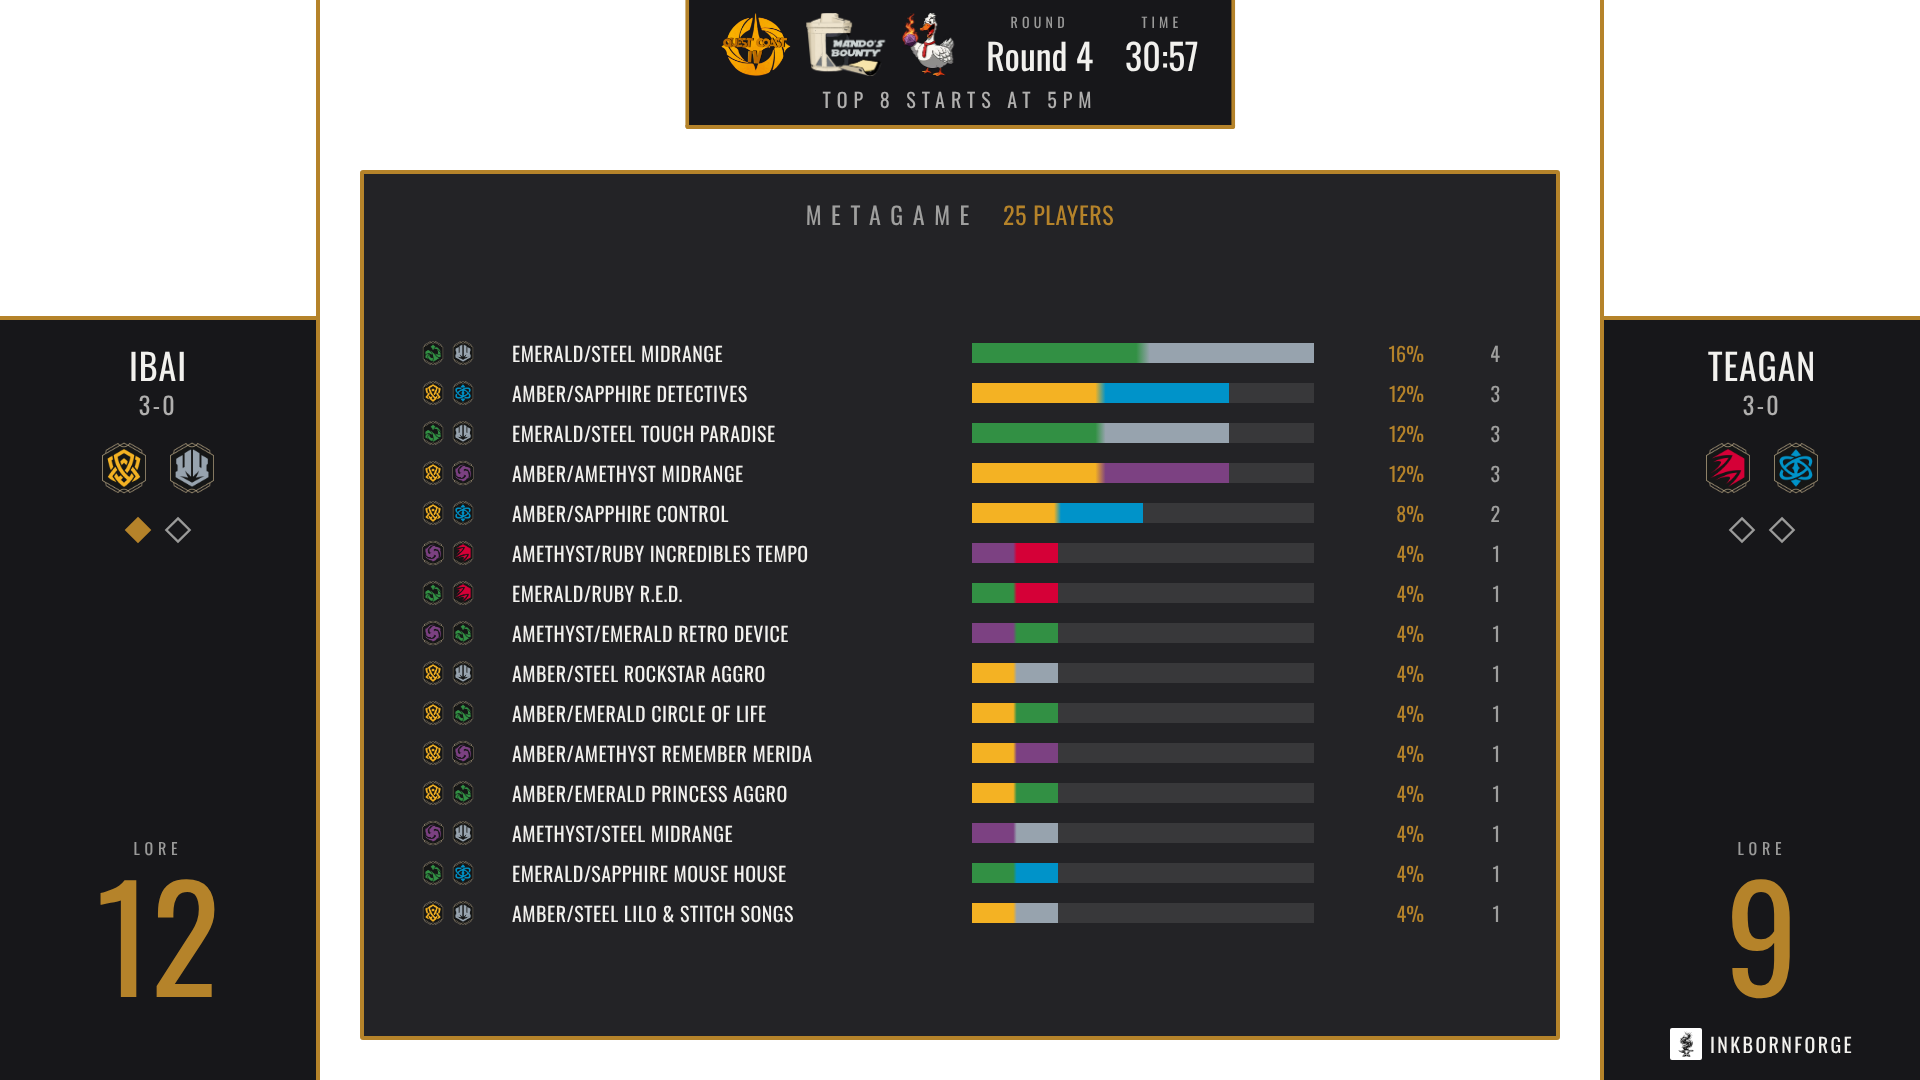
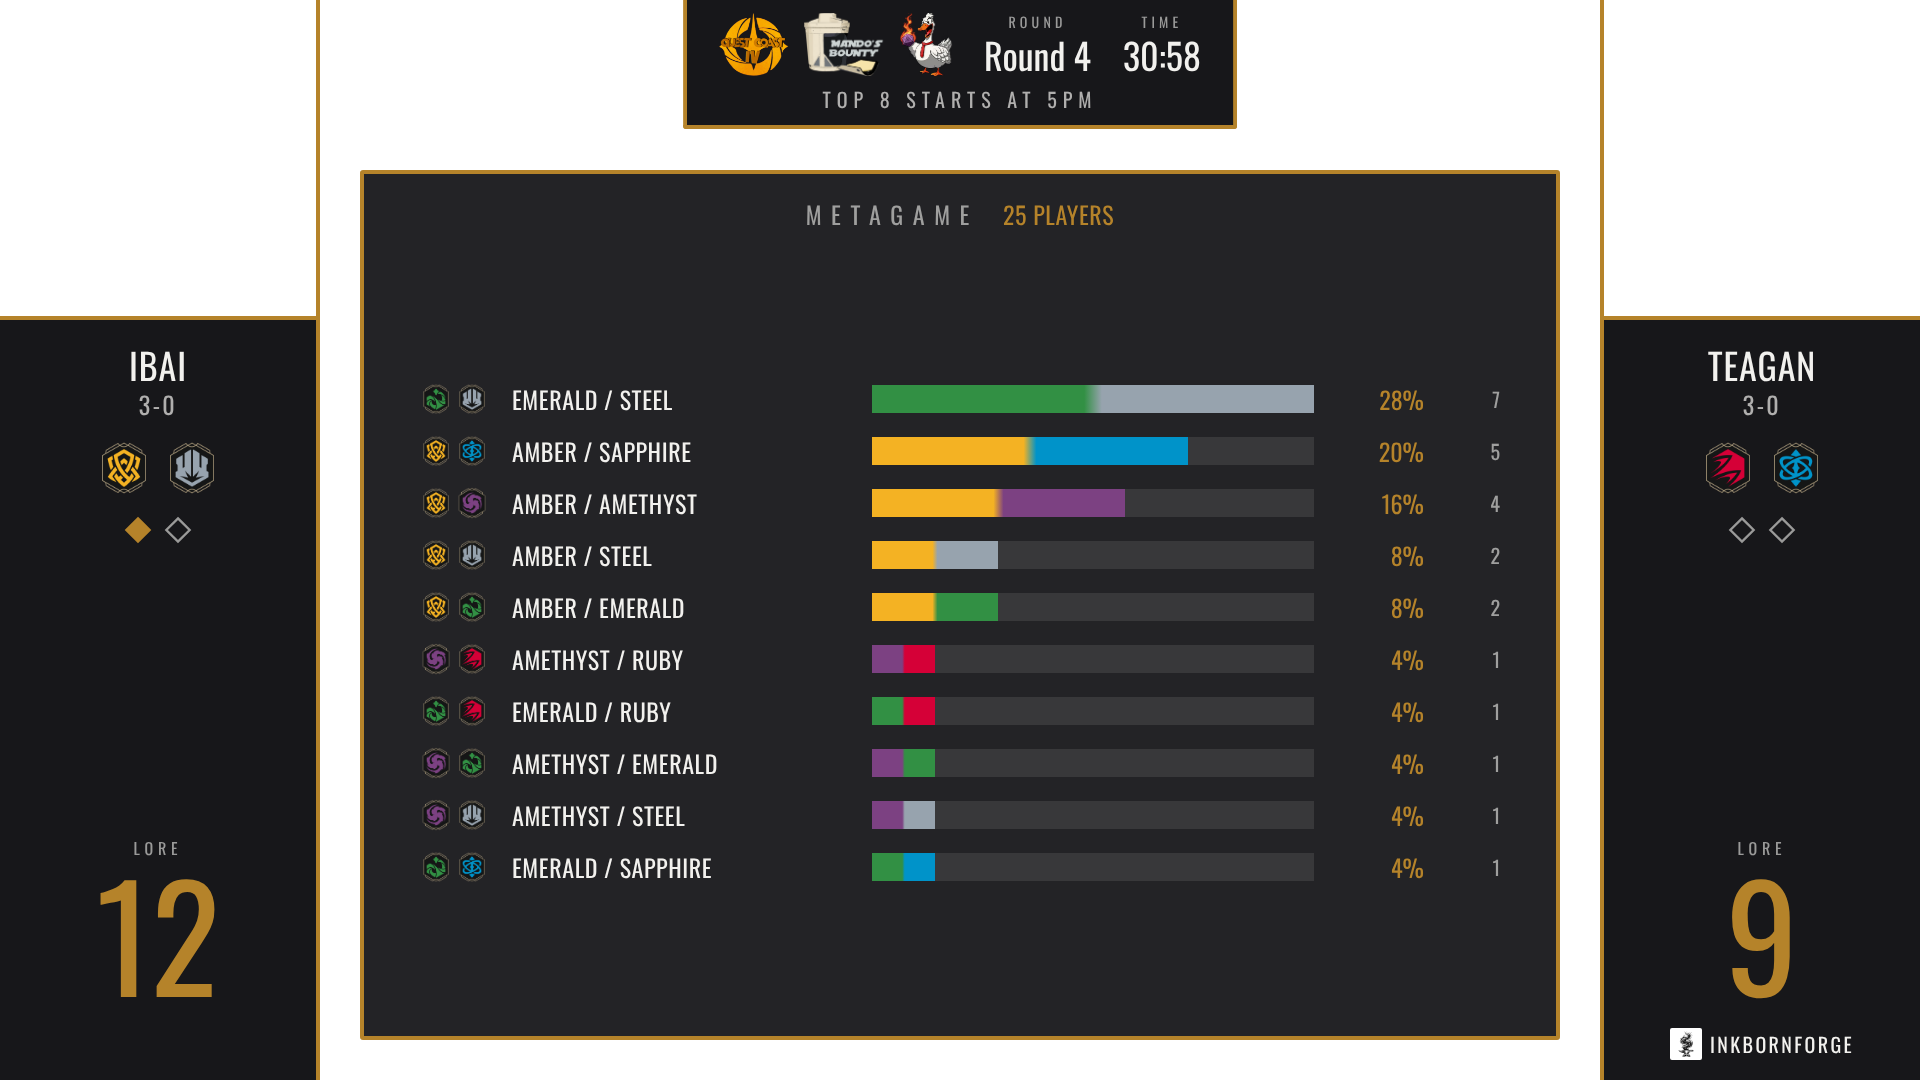
Stream Overlay: metagame rows are ink pairs
Lines group by the inks their name starts with, so Field Breakdown's
archetype lines merge into their pairs; a line with no ink in front
counts as Other.

Claude-Session: https://claude.ai/code/session_01PuhSUkhQdqWYCWVwuEZRoD

diff --git a/src/lib/streamOverlay.js b/src/lib/streamOverlay.js
@@ -438,10 +438,14 @@ export function metaInks(name) {
   return [...new Set(inks)]
 }
 
-// The chart: each archetype's share of the field, largest first, with its
-// inks. Counts share by their sum; percentages by 100, any remainder being
-// Other. In a room over META_OTHER_MIN_PLAYERS players (the typed field size,
-// else the sum of the counts) archetypes under META_OTHER_MAX_SHARE fold
+const cap = w => w[0].toUpperCase() + w.slice(1)
+
+// The chart: each ink pair's share of the field, largest first. Lines are
+// grouped by the inks their name starts with (so Field Breakdown's archetype
+// lines merge into their pairs); a line with no ink in front counts as
+// Other. Counts share by their sum; percentages by 100, any remainder being
+// Other. In a room over META_OTHER_MIN_PLAYERS players (the typed field
+// size, else the sum of the counts) pairs under META_OTHER_MAX_SHARE fold
 // into Other, which always sits last.
 export function metaSlices(text, players) {
   const { entries, percent } = parseMeta(text)
@@ -450,18 +454,25 @@ export function metaSlices(text, players) {
   const total = percent ? Math.max(100, sum) : sum
   const fieldSize = players ?? (percent ? null : sum)
   const fold = (fieldSize ?? 0) > META_OTHER_MIN_PLAYERS
-  const named = []
-  let other = percent && sum < 100 ? { count: null, share: (100 - sum) / 100 } : { count: 0, share: 0 }
+  const byPair = new Map()
+  let otherValue = 0
   for (const e of entries) {
-    const share = e.value / total
-    if (e.name.toLowerCase() === OTHER.toLowerCase() || (fold && share < META_OTHER_MAX_SHARE)) {
-      other = { count: other.count === null || percent ? null : other.count + e.value, share: other.share + share }
-    } else {
-      named.push({ name: e.name, count: percent ? null : e.value, share, inks: metaInks(e.name) })
-    }
+    const inks = metaInks(e.name)
+    if (inks.length === 0) { otherValue += e.value; continue }
+    const key = [...inks].sort().join('/')
+    const pair = byPair.get(key) ?? { name: inks.map(cap).join(' / '), inks, value: 0 }
+    pair.value += e.value
+    byPair.set(key, pair)
+  }
+  const named = []
+  for (const pair of byPair.values()) {
+    const share = pair.value / total
+    if (fold && share < META_OTHER_MAX_SHARE) otherValue += pair.value
+    else named.push({ name: pair.name, count: percent ? null : pair.value, share, inks: pair.inks })
   }
   named.sort((a, b) => b.share - a.share)
-  if (other.share > 0) named.push({ name: OTHER, ...other, inks: [] })
+  const otherShare = otherValue / total + (percent && sum < 100 ? (100 - sum) / 100 : 0)
+  if (otherShare > 0) named.push({ name: OTHER, count: percent ? null : otherValue, share: otherShare, inks: [] })
   return { players: fieldSize, slices: named }
 }
 

diff --git a/src/pages/StreamOverlayPage.jsx b/src/pages/StreamOverlayPage.jsx
@@ -378,7 +378,7 @@ export function StreamOverlayPage() {
               ['', 'Pairing', true, ''],
               ['standings', 'Standings', Boolean(row.standings), row.standings ? `after ${row.standings.round} · ${row.standings.players} players` : 'none sent'],
               ['bracket', 'Bracket', Boolean(row.bracket), row.bracket ? `${row.bracket.phase} · ${row.bracket.rounds.length} rounds` : 'none sent'],
-              ['meta', 'Metagame', hasMeta, hasMeta ? `${metaSlices(row.meta_text, row.meta_players).slices.length} archetypes` : 'nothing typed'],
+              ['meta', 'Metagame', hasMeta, hasMeta ? `${metaSlices(row.meta_text, row.meta_players).slices.length} ink pairs` : 'nothing typed'],
             ].map(([value, label, available, sub]) => (
               <Button key={value} size="sm" variant={row.break_panel === value ? 'primary' : 'secondary'} aria-pressed={row.break_panel === value} disabled={!available} onClick={() => setField('break_panel', value)}>
                 {label}{sub && <span className="normal-case tracking-normal font-sans opacity-70">· {sub}</span>}
@@ -400,7 +400,7 @@ export function StreamOverlayPage() {
           </div>
         </Card>
 
-        <Card title="Metagame" description={'The room\'s archetypes, one per line with a deck count ("Emerald/Steel Midrange 7") or a share ("… 28%"). Field Breakdown\'s Copy for Stream Overlay gives these lines. Shown as bars over the gameplay cam or on the break screen; in a room over 50 players, archetypes under 5% fold into Other.'} className="p-5 lg:col-span-2">
+        <Card title="Metagame" description={'The room\'s decks, one line per archetype or ink pair with a deck count ("Emerald/Steel Midrange 7", "Amber/Sapphire 5") or a share ("… 28%"); lines are grouped into ink pairs. Field Breakdown\'s Copy for Stream Overlay gives these lines. Shown as bars over the gameplay cam or on the break screen; in a room over 50 players, pairs under 5% fold into Other.'} className="p-5 lg:col-span-2">
           <div className="grid gap-4 md:grid-cols-[1fr_200px]">
             <Textarea value={row.meta_text} onChange={e => setField('meta_text', e.target.value)} rows={6} className="w-full font-mono text-xs" placeholder={'Emerald/Steel Midrange 7\nAmber/Sapphire Detectives 5\nAmber/Amethyst Midrange 4\n…'} />
             <div className="flex flex-col gap-3">

diff --git a/src/lib/__tests__/streamOverlay.test.js b/src/lib/__tests__/streamOverlay.test.js
@@ -175,17 +175,19 @@ describe('streamOverlay row mapping', () => {
     expect(metaInks('Pawpsicle')).toEqual([])
   })
 
-  it('builds pie slices, folding small archetypes into Other only in a big room', () => {
-    const small = metaSlices('Amber/Sapphire Detectives 3\nEmerald/Steel Midrange 7\nRuby/Amethyst Tempo 1', null)
-    expect(small.players).toBe(11)
-    expect(small.slices.map(s => [s.name, s.count, Math.round(s.share * 100)])).toEqual([['Emerald/Steel Midrange', 7, 64], ['Amber/Sapphire Detectives', 3, 27], ['Ruby/Amethyst Tempo', 1, 9]])
-    const big = metaSlices('Emerald/Steel Midrange 40\nAmber/Sapphire Detectives 15\nRuby/Amethyst Tempo 2\nOther 3', null)
+  it('groups the lines into ink pairs, folding small pairs into Other only in a big room', () => {
+    const small = metaSlices('Amber/Sapphire Detectives 3\nEmerald/Steel Midrange 4\nEmerald/Steel Touch Paradise 3\nSteel/Emerald Songs 1\nRuby/Amethyst Tempo 1', null)
+    expect(small.players).toBe(12)
+    expect(small.slices.map(s => [s.name, s.count, Math.round(s.share * 100), s.inks])).toEqual([
+      ['Emerald / Steel', 8, 67, ['emerald', 'steel']], ['Amber / Sapphire', 3, 25, ['amber', 'sapphire']], ['Ruby / Amethyst', 1, 8, ['ruby', 'amethyst']],
+    ])
+    const big = metaSlices('Emerald/Steel Midrange 40\nAmber/Sapphire Detectives 15\nRuby/Amethyst Tempo 2\nPawpsicle 3', null)
     expect(big.players).toBe(60)
-    expect(big.slices.map(s => [s.name, s.count])).toEqual([['Emerald/Steel Midrange', 40], ['Amber/Sapphire Detectives', 15], ['Other', 5]])
+    expect(big.slices.map(s => [s.name, s.count])).toEqual([['Emerald / Steel', 40], ['Amber / Sapphire', 15], ['Other', 5]])
     expect(big.slices[2].inks).toEqual([])
     const pct = metaSlices('Emerald/Steel Midrange 40%\nAmber/Sapphire Detectives 35%', 120)
     expect(pct.players).toBe(120)
-    expect(pct.slices.map(s => [s.name, s.count, s.share])).toEqual([['Emerald/Steel Midrange', null, 0.4], ['Amber/Sapphire Detectives', null, 0.35], ['Other', null, 0.25]])
+    expect(pct.slices.map(s => [s.name, s.count, s.share])).toEqual([['Emerald / Steel', null, 0.4], ['Amber / Sapphire', null, 0.35], ['Other', null, 0.25]])
     expect(metaSlices('', null)).toBeNull()
   })
 

diff --git a/src/pages/StreamOverlayViewPage.jsx b/src/pages/StreamOverlayViewPage.jsx
@@ -350,7 +350,7 @@ function BreakScreen({ state, now }) {
 }
 
 // The tournament's metagame (metaSlices over the panel's text): one bar per
-// archetype, largest first, in its ink pair's two colors (inkFill, as the
+// ink pair, largest first, in its two colors (inkFill, as the
 // Inspector paints a deck), the share and the deck count beside it. Framed
 // over the gameplay cam (same box as the player card) or bare on the break
 // screen. Type and row height step down as the list grows.
@@ -367,7 +367,7 @@ function MetaPanel({ state, note, framed }) {
       {meta.slices.map(sl => (
         <div key={sl.name} className="flex items-center gap-5" style={{ height: rowH }}>
           <span className="flex gap-1 w-[72px] shrink-0">{sl.inks.map(ink => <InkIcon key={ink} color={ink} size={n > 10 ? 26 : 32} />)}</span>
-          <span className={`${size} uppercase tracking-wide leading-none truncate w-[440px] shrink-0`}>{sl.name}</span>
+          <span className={`${size} uppercase tracking-wide leading-none truncate w-[340px] shrink-0`}>{sl.name}</span>
           <div className="flex-1 bg-(--on-fill)/10 overflow-hidden" style={{ height: barH }}>
             <div className="h-full" style={{ width: `${(sl.share / max) * 100}%`, ...inkFill(sl.inks) }} />
           </div>

diff --git a/CLAUDE.md b/CLAUDE.md
@@ -559,7 +559,7 @@ Two display details in the view: a player's name steps down a size class as it o
 
 **Standings and bracket on the break screen** (migration `020_stream_tables_break_panels.sql`): the Event card's Send standings / Send bracket buttons fetch the linked event (`fetchAllStandings()` for the current round; `fetchEventDetails()` + `fetchAllRoundMatches()` for the bracket) and write a snapshot to the row — `standings` (`buildStandingsSnapshot()`: every ranked player with record and points, plus the round and field size; the break screen shows the top `STANDINGS_ROWS`, the caster notes all of them in columns across the bottom) or `bracket` (`buildBracketSnapshot()`: the elimination phase's rounds in table order, each match's names, winner side and score; round names from `lib/bracket.js`, shared with `EliminationBracket`) — and sets `break_panel` to it. The break screen shows the pairing (default, `''`), the standings in two columns, the bracket (one column per round, box height from the biggest round so a Top 32 fits), or the metagame chart (`'meta'`, below); the panel's Break screen card switches between whichever have been sent. Snapshots, not live: the OBS view has no session, so the operator re-sends after each round. Send bracket errors rather than sending an empty bracket before the top cut has matches. Clear table drops both.
 
-**Metagame chart** (migration `024_stream_tables_meta.sql`): the room's archetypes typed into the panel's Metagame card, one per line as `<name> <decks>` or `<name> <n>%` (`meta_text`; Field Breakdown's "Copy for Stream Overlay" produces the lines), plus an optional field size (`meta_players`, blank meaning the counts' total). `metaSlices()` in `streamOverlay.js` (unit-tested) turns the text into the chart's rows: each archetype's share, largest first; in a room over `META_OTHER_MIN_PLAYERS` (50) players, archetypes under `META_OTHER_MAX_SHARE` (5%) fold into "Other", which also absorbs any typed "Other" line and, in percent mode, the remainder to 100. `MetaPanel` in the view draws one bar per archetype, its length relative to the biggest, painted in the inks the name starts with (`metaInks()`: "Emerald/Steel Midrange" → `inkFill()`'s half-emerald, half-steel bar, Other in gray), with ink icons, the share and the count beside it; type and row height step down as the list grows. (A pie was tried first and dropped: ink-pair wedges read badly.) It renders in two places: over the gameplay cam (`meta_shown`, the panel's Show on stream or the 4 hotkey; it shares the slot with the decklist and player card, so showing one hides the others) and as a fourth break-screen panel (`break_panel = 'meta'`). Clear table hides it but keeps the text, which is the event's, not the pairing's.
+**Metagame chart** (migration `024_stream_tables_meta.sql`): the room's decks typed into the panel's Metagame card, one per line as `<name> <decks>` or `<name> <n>%` (`meta_text`; archetype or ink-pair names both work, and Field Breakdown's "Copy for Stream Overlay" produces the archetype lines), plus an optional field size (`meta_players`, blank meaning the counts' total). `metaSlices()` in `streamOverlay.js` (unit-tested) turns the text into the chart's rows, **one per ink pair**: lines group by the inks their name starts with (`metaInks()`: "Emerald/Steel Midrange" and "Steel/Emerald Songs" both land in Emerald / Steel), largest first; a line with no ink in front counts as "Other", as do, in a room over `META_OTHER_MIN_PLAYERS` (50) players, pairs under `META_OTHER_MAX_SHARE` (5%), and in percent mode the remainder to 100. `MetaPanel` in the view draws one bar per pair, its length relative to the biggest, painted half in each ink (`inkFill()`, Other in gray), with ink icons, the share and the count beside it; type and row height step down as the list grows. (A pie, then per-archetype bars, were tried first.) It renders in two places: over the gameplay cam (`meta_shown`, the panel's Show on stream or the 4 hotkey; it shares the slot with the decklist and player card, so showing one hides the others) and as a fourth break-screen panel (`break_panel = 'meta'`). Clear table hides it but keeps the text, which is the event's, not the pairing's.
 
 **Day 2 in the archive:** `tournament_history_standings.made_day_two` (same migration), precomputed at import like `made_top_cut`: a player made Day 2 if they played a match in the event's second Swiss phase (a DLC's "Day Two Swiss"; matches carry `phase_name`), counted only when that phase holds fewer players than started — a few side events run everyone through two Swiss phases. The migration's UPDATE backfills already-imported events from their matches. `player-history` returns `madeDayTwo` per event and `dayTwoCount`.
 
